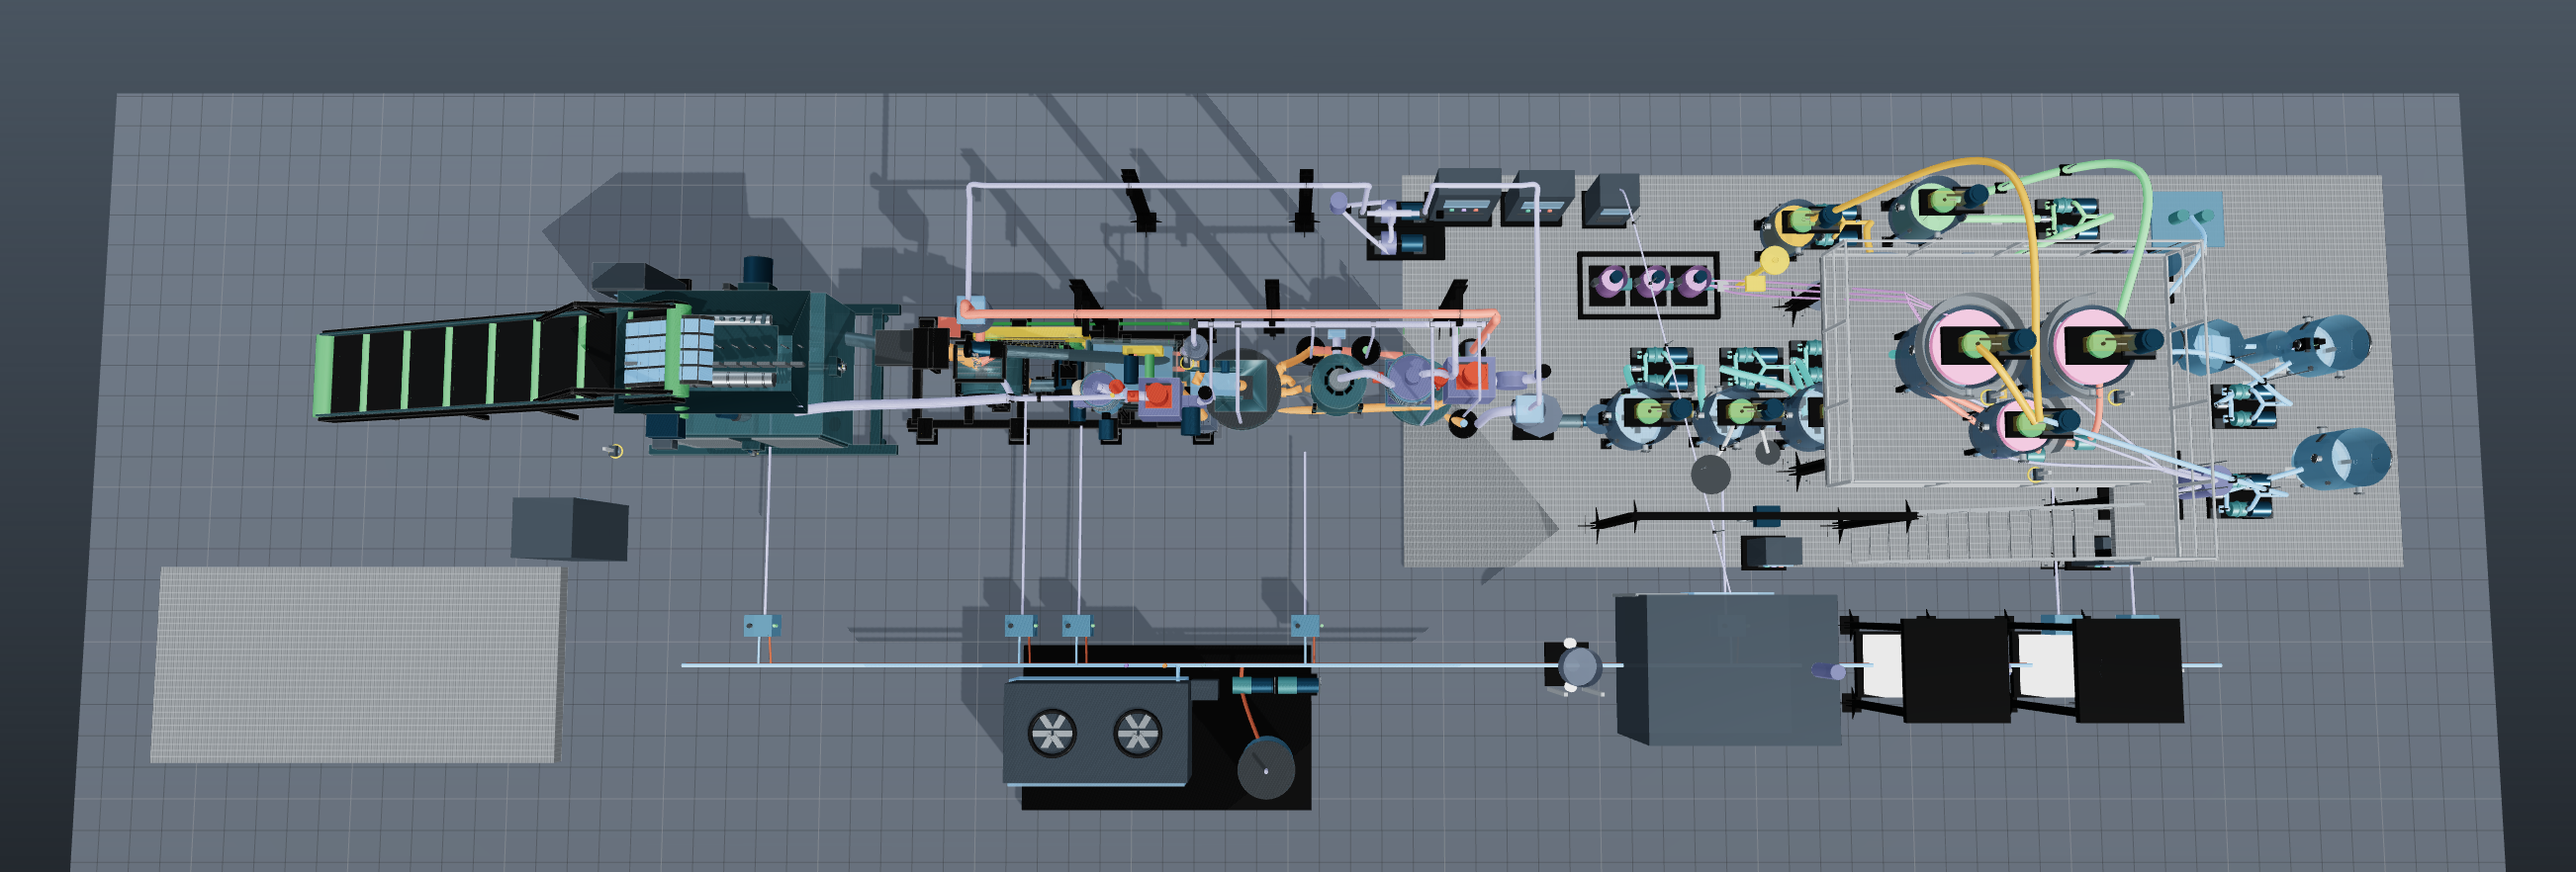
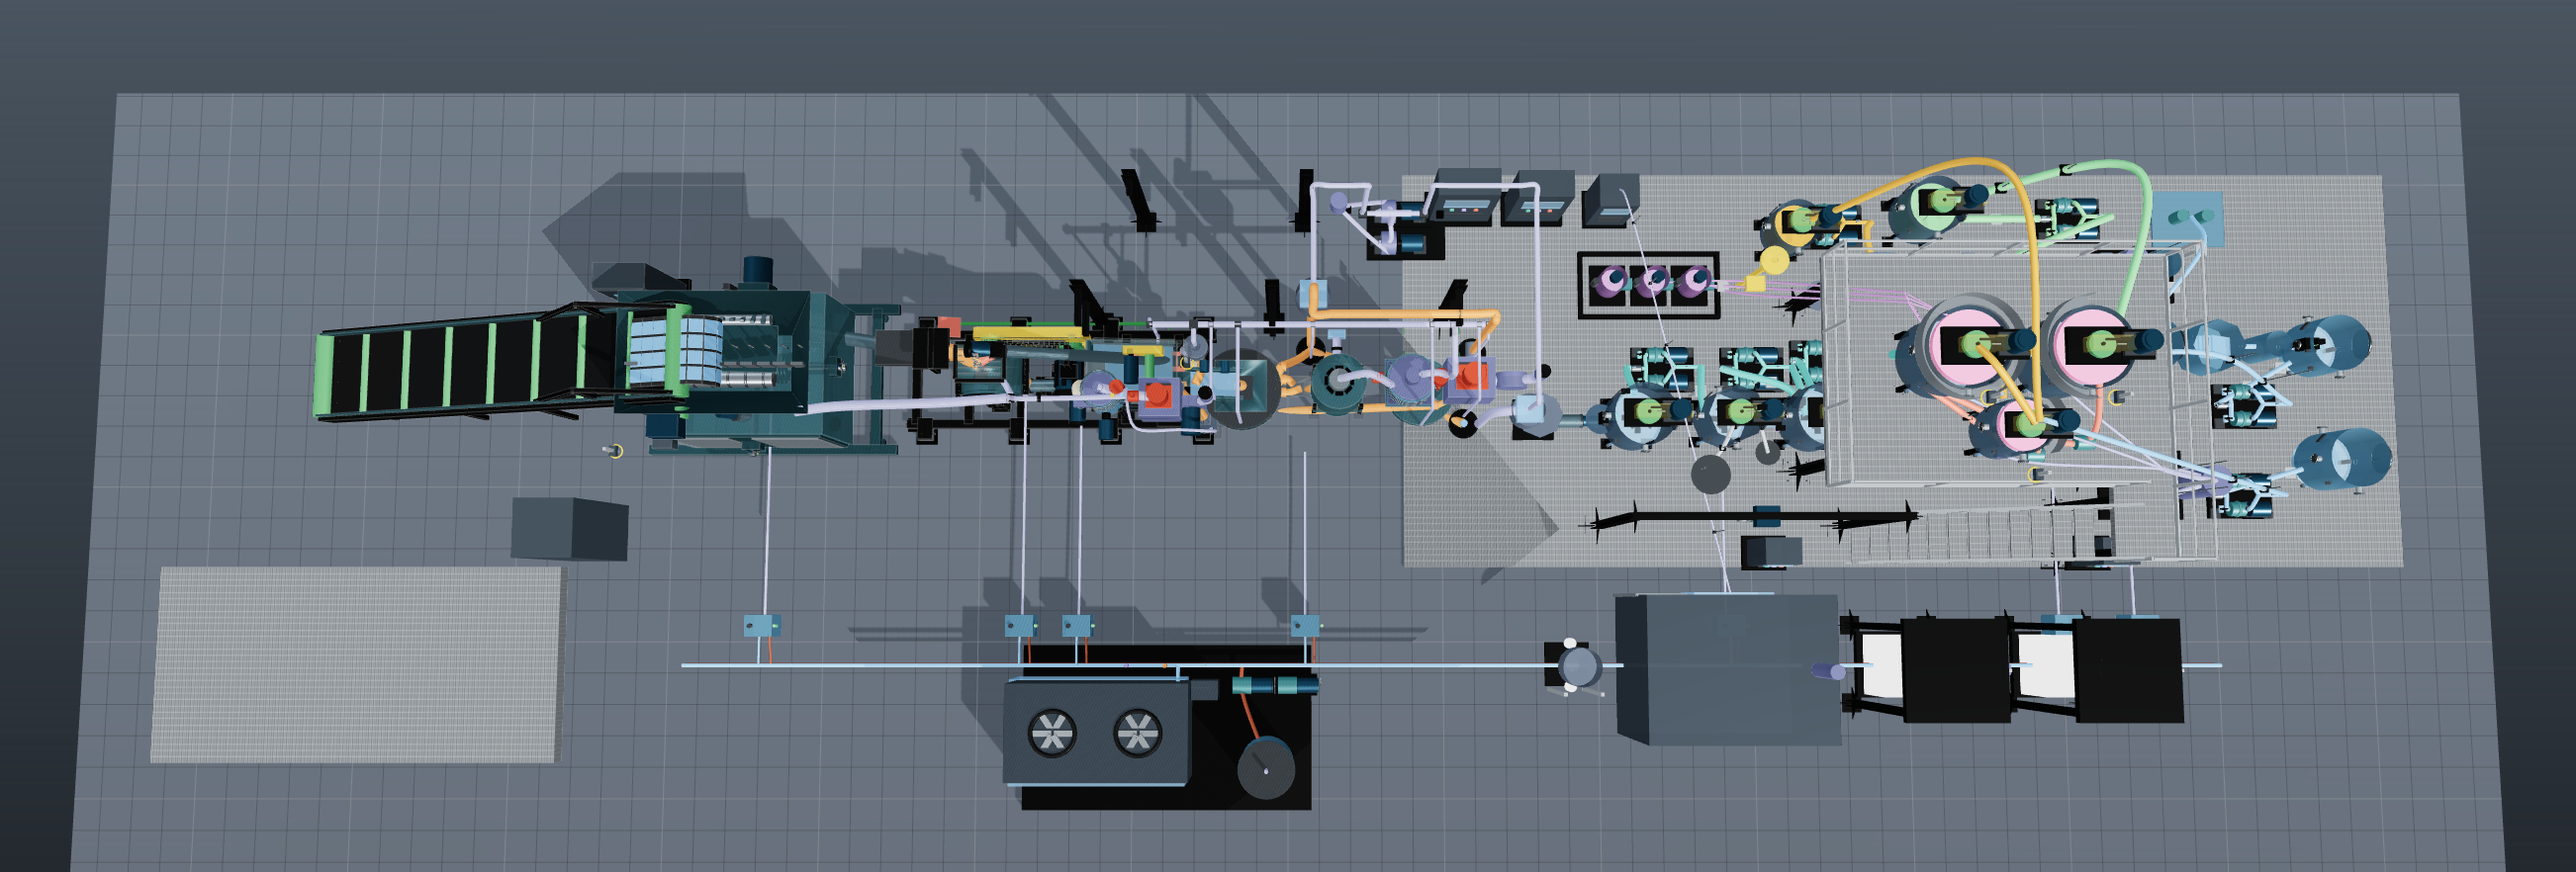
2단·폐기빈 국소배기와 접지, SC-500 BOM 을 2단으로
데크를 2단으로 만들면 배출단이 둘이 되고 회로를 떠나는 BIN-102 낙하지점이
새로 생기는데, 국소배기는 상부 후드 1점 그대로였고 신설된 폐기빈에는 벤트가
아예 없었다 — 다른 제품빈에는 전부 있는 것이 이 빈에만 빠져 있었다.

폭발방호·집진
- 2단 데크 국소배기 DN50 — 하우징 −z 측벽 노즐에서 수직으로 올라가 VH-201
  공통 벤트 헤더에 붙는다. 헤더 시작점을 x 2.52 → 1.86 으로 연장했다.
- BIN-102 벤트 DN50 — SC-500 상부 지관에 합류시켜 BF-201 로. 경로는
  CY-101(z 0.11–0.69)·CV-102(z −0.31–−0.09)와 P17 지관(y ≤ 1.50)을 피해
  z ≈ 1.00 · y ≥ 1.66 을 지난다.
- 접지 본딩 2본 — SC-500 진동체 프레임과 BIN-102. 진동체는 정전기방지
  유연연결 뒤라 배관을 통한 접지가 끊긴다.
- runtime.inspect().enclosedPiping.localExhaustPoints 9 → 11점.

SC-500 BOM (grinder)
- 어셈블리 「SC-500 환류」 → 「SC-500 2단 스크린」
- HG-032 를 2단 본체(W800×L1400)로 고치고 HG-034~039 신설 —
  1단 2 mm 메시(선경 0.80 · 개구 51.0 %) · 2단 500 µm 메시(선경 0.315 ·
  개구 37.6 %) · 메시 텐셔닝 2세트 · 데크 클램프 레일 4본 ·
  1단 오버 배출슈트 DN150 · BIN-102 폐기빈 0.06 m³
- HG-043 2단 데크 국소배기 노즐 DN50
- F-HG-08 데크 클램프 볼트 32(데크당 16) · F-HG-09 메시 텐션 볼트 12
- capacity/services/installation/acceptance 를 2단 회로 실값으로 —
  정격 400 에 실부하 380.1, 국소배기 3점, 데크 인출공간 1,600 mm,
  메시 장력 편차 ≤10 % 와 1단 45 / 2단 80 kg/h 실측 확인

렌더
docs/drawings/renders 3장을 현행 형상으로 다시 뽑았다. 설비 실범위는
36.05 × 9.55 m · 높이 6.18 m 로 종전과 같다(신설물이 기존 포락 안이다).
README 에 회로 재설계분이 무엇으로 보이는지 적었다.

검증
node syn.mjs 6블록 · offline.mjs 외부요청 0/오류 0 · deckmode.mjs 5모드 ·
파이썬 344건 · random 37 / visualRandom 17 유지 · 신설 벤트 3경로 2 cm
샘플링 간섭검사 0건

Claude-Session: https://claude.ai/code/session_01VqrMdsqG9TwrYpTzJuKaK7

diff --git a/docs/drawings/pv-recycling-miniapp.html b/docs/drawings/pv-recycling-miniapp.html
@@ -1899,6 +1899,16 @@ html>body{padding:0}</style>
       유효 1.26 × 0.89 = <strong>1.121 m²/데크</strong>(여유 +30 %)를 확보했다. 2단 합계 2.242 m².
       종전은 0.98 m² 단단이었다.</p>
 
+    <strong>데크가 늘면 흡인점도 늘어난다 — 국소배기·접지</strong>
+    <p class="text-small">데크를 2단으로 만들면 <strong>배출단이 둘</strong>이 되고, 회로를 떠나는
+      <strong>BIN-102 낙하지점</strong>이 새로 생긴다. 종전 국소배기는 상부 후드 1점뿐이었고
+      신설된 폐기빈에는 벤트가 없어, 다른 제품빈에는 전부 있는 것이 이 빈에만 빠져 있었다.
+      다음 세 가지를 더했다 —
+      ① <strong>2단 데크 국소배기 DN50</strong>(하우징 −z 측벽 → VH-201 헤더, 헤더 시작점을
+      x 2.52 → 1.86 으로 연장) · ② <strong>BIN-102 벤트 DN50</strong>(SC-500 상부 지관 합류 →
+      BF-201) · ③ <strong>접지 본딩</strong> 2본(SC-500 진동체 프레임 · BIN-102).
+      진동체는 정전기방지 유연연결 뒤라 배관을 통한 접지가 끊기므로 프레임을 따로 물려야 한다.</p>
+
     <p class="text-small text-muted">배출단 베드깊이는 1단 0.15 mm · 2단 0.26 mm 로 한계(4 × 개구 = 8.0 / 2.0 mm) 안이다 —
       이 회로에서 폭을 정하는 것은 베드깊이가 아니라 위의 용량 계산이다.
       기본용량 B 는 건식 미세체가름 실무값이며, Kst/체분석 실측이 나오면 교체해야 한다.</p>
@@ -17072,6 +17082,23 @@ window.__HSG_CANNON__=Object.freeze({"AABB":AABB,"ArrayCollisionMatrix":ArrayCol
       new THREE.Vector3(1.48, 1.86, 0.56),
       new THREE.Vector3(1.70, 2.20, 0.52)
     ]);
+    // BIN-102 벤트 — 폐기빈은 낙하 지점이라 치환공기와 분진이 그대로 올라온다.
+    // 다른 제품빈은 전부 벤트를 달았는데 신설된 이 빈만 없었다. SC-500 상부 지관에
+    // 합류시켜 BF-201 로 보낸다. 경로는 CY-101(z 0.11–0.69)·CV-102(z −0.31–−0.09)와
+    // P17 지관(y ≤ 1.50)을 피해 z ≈ 1.00 · y ≥ 1.66 을 지나간다.
+    const bin102VentBranch = new THREE.CatmullRomCurve3([
+      new THREE.Vector3(2.70, 0.56, 0.88),
+      new THREE.Vector3(2.76, 1.66, 1.00),
+      new THREE.Vector3(2.30, 1.86, 1.00),
+      new THREE.Vector3(1.62, 1.90, 0.98),
+      new THREE.Vector3(1.50, 1.88, 0.72),
+      new THREE.Vector3(1.48, 1.86, 0.56)
+    ]);
+    addMesh(parts.P12, new THREE.TubeGeometry(bin102VentBranch, 40, 0.024, 12, false), material.pipeAir, { x: 0, y: 0, z: 0 }, null, "P12", false);
+    addCylinder(parts.P12, 0.030, 0.10, { x: 2.70, y: 0.52, z: 0.86 }, material.pipeAir, "P12", "y", 14, false);
+    // 2단 데크 국소배기 노즐 — 하우징 −z 측벽을 뚫고 나와 VH-201 헤더로 올라간다.
+    // 데크가 두 장이 되면서 배출단이 둘이 되었으므로 흡인점도 둘이어야 한다.
+    addCylinder(parts.P12, 0.028, 0.16, { x: 1.86, y: 0.74, z: -0.55 }, material.pipeAir, "P12", "z", 14, false);
     const ch501VentBranch = new THREE.CatmullRomCurve3([
       new THREE.Vector3(2.30, 0.49, 0.48),
       new THREE.Vector3(2.22, 1.62, 0.62),
@@ -17606,11 +17633,13 @@ window.__HSG_CANNON__=Object.freeze({"AABB":AABB,"ArrayCollisionMatrix":ArrayCol
         { x, y: VENT_HEADER_Y, z: RACK_Z }, material.silverClamp, "P21", null, false);
       return name;
     };
-    const ventHeaderX = [2.52, 6.95];
+    // 헤더 시작점을 SC-500 2단 국소배기까지 당긴다 — 데크가 늘면 흡인점도 는다.
+    const ventHeaderX = [1.86, 6.95];
     addMesh(parts.P21, new THREE.TubeGeometry(new THREE.CatmullRomCurve3([
       new THREE.Vector3(ventHeaderX[0], VENT_HEADER_Y, RACK_Z),
       new THREE.Vector3(ventHeaderX[1], VENT_HEADER_Y, RACK_Z)
     ]), 8, 0.050, 14, false), material.pipeAir, { x: 0, y: 0, z: 0 }, null, "P21", false);
+    ventRiser(1.86, 0.74, -0.60, 0.028, "SC-500 2단 데크 국소배기");
     ventRiser(pc201ReceiverCenter.x, 2.08, pc201ReceiverCenter.z, 0.040, "PC-201 리시버 벤트");
     ventRiser(2.78, 1.18, 0.44, 0.025, "VS-501 분배기 벤트");
     ventRiser(secondaryCenter.x, 0.88, secondaryCenter.z + 0.58, 0.030, "SV-201 스크린 벤트");
@@ -17834,6 +17863,10 @@ window.__HSG_CANNON__=Object.freeze({"AABB":AABB,"ArrayCollisionMatrix":ArrayCol
     addBox(parts.P01, { x: 8.20, y: 0.035, z: 0.05 }, { x: 2.60, y: 0.06, z: -0.92 }, bondingMaterial, "P01", null, false);
     addBonding(parts.P02, "P02", { x: grinderX, y: 0.58, z: -0.30 }, { x: grinderX, y: 0.06, z: -0.92 });
     addBonding(parts.P15, "P15", { x: cycloneX, y: 1.40, z: cycloneZ - 0.20 }, { x: cycloneX, y: 0.06, z: -0.92 });
+    // SC-500 하우징과 BIN-102 — 2단 스크린과 폐기빈도 착화원 관리 대상이다.
+    // 정전기방지 유연연결 뒤쪽은 접지가 끊기므로 진동체 프레임을 따로 물린다.
+    addBonding(parts.P12, "P12", { x: 1.48, y: 0.24, z: -0.56 }, { x: 1.48, y: 0.06, z: -0.92 });
+    addBonding(parts.P12, "P12", { x: 2.58, y: 0.10, z: 0.42 }, { x: 2.58, y: 0.06, z: -0.92 });
     addBonding(parts.P17, "P17", { x: filterCenter.x, y: 1.20, z: filterCenter.z - 0.26 }, { x: filterCenter.x, y: 0.06, z: -0.92 });
     addBonding(parts.P21, "P21", { x: cyclone2Center.x, y: 1.10, z: cyclone2Center.z - 0.30 }, { x: cyclone2Center.x, y: 0.06, z: -0.92 });
     addBonding(parts.P21, "P21", { x: bfCenter.x, y: 1.00, z: bfCenter.z - 0.32 }, { x: bfCenter.x, y: 0.06, z: -0.92 });
@@ -22767,7 +22800,7 @@ window.__HSG_CANNON__=Object.freeze({"AABB":AABB,"ArrayCollisionMatrix":ArrayCol
         exposedConveyors: 0,
         solidsLines: ["L00 Shredder screen split", "L00-R SCV-R1 recycle", "L00-P SCV-P1 to HSG", "L01 mill transfer", "L02 recycle", "L03 downstream lift", "L04 classifier feed", "L06 polishing feed and discharge"],
         dustHeaders: ["BF-101 upstream header", "BF-201 downstream header"],
-        localExhaustPoints: ["ICSH-301 hopper and screen enclosure", "FD-101", "SC-500", "CH-501", "PC-201 receiver", "VS-501", "SV-201", "SS-201", "sealed product receivers"],
+        localExhaustPoints: ["ICSH-301 hopper and screen enclosure", "FD-101", "SC-500 upper hood", "SC-500 second deck (2 mm/500 um decks vented separately)", "BIN-102 backsheet reject bin", "CH-501", "PC-201 receiver", "VS-501", "SV-201", "SS-201", "sealed product receivers"],
         finalAirPath: ["cyclone", "bag filter", "ID fan", "silencer", "exhaust stack"]
       },
       deckCount: sieveDeckMeshes.length,
@@ -23321,13 +23354,13 @@ window.__HSG_CANNON__=Object.freeze({"AABB":AABB,"ArrayCollisionMatrix":ArrayCol
     },
     grinder: {
       label:"분쇄기", tag:"HSG-101 Closed Circuit", drawing:"DI-PVR-HSG101-DD-001", revision:"DD-R4",
-      capacity:"신규 ≤300 kg/h · 환류 포함 총부하 ≤400 kg/h", overall:"5,000 L × 1,600 W × 2,500 H mm", mass:"예상 4.6 t · 스키드 포함",
+      capacity:"신규 ≤300 kg/h · 정격 총부하 ≤400 kg/h(설계 실부하 380.1)", overall:"5,000 L × 1,600 W × 2,500 H mm", mass:"예상 4.6 t · 스키드 포함",
       foundation:"스키드 5,000×1,600 mm · M24 앵커 12SET · 방진패드 12EA · 그라우트 30 mm",
       basis:"Dmax 10 mm · 로터 Ø450×350 · 1,500 rpm(최대 1,800) · SC-500 2단(2 mm 스캘핑＋500 µm 폐회로) · D95 0.438 mm",
-      services:[powerService("grinder"), "흡인: 보어 137 라이닝 · 900 m³/h · BF-101/IDF-101", "투입: FD-101, 밀폐 유연슈트", "폐기/환류/제품: SC-500 >2 mm BIN-102 / 500 µm–2 mm CV-102 / <500 µm CH-501"],
-      installation:["로터 인출측 1,800 mm", "스크린 교체 하부공간 900 mm", "필터백 상부 인출공간 1,200 mm", "회전체 레이저 정렬·벨트장력 기록"],
-      acceptance:["무부하 1,500 rpm 2 h", "베어링 진동 ISO 20816 Zone B 이하", "400 kg/h 8 h 폐회로 성능", "분진누설·음압·집진 ΔP 확인"],
-      dimensions:{l:5000,w:1600,h:2500}, assemblies:["전체","스키드·하우징","로터·날","스크린·라이너","M-101 구동","FD/CV 이송","SC-500 환류","집진·음압","전력 인입·LCP","체결구"],
+      services:[powerService("grinder"), "흡인: 보어 137 라이닝 · 900 m³/h · BF-101/IDF-101", "국소배기: SC-500 상부 DN50 ＋ 2단 데크 DN50 ＋ BIN-102 DN50 → VH-201 → BF-201", "투입: FD-101, 밀폐 유연슈트", "폐기/환류/제품: SC-500 >2 mm BIN-102 45 / 500 µm–2 mm CV-102 80.1 / <500 µm CH-501 255 kg/h"],
+      installation:["로터 인출측 1,800 mm", "스크린 교체 하부공간 900 mm", "SC-500 데크 인출 측면공간 1,600 mm(2단 각각)", "필터백 상부 인출공간 1,200 mm", "회전체 레이저 정렬·벨트장력 기록"],
+      acceptance:["무부하 1,500 rpm 2 h", "베어링 진동 ISO 20816 Zone B 이하", "400 kg/h 8 h 폐회로 성능", "SC-500 2단 메시 장력 편차 ≤10% · 데크별 체분석", "1단 오버 45 kg/h·2단 오버 80 kg/h 실측 확인", "분진누설·음압·집진 ΔP 확인(2단 국소배기·BIN-102 벤트 포함)"],
+      dimensions:{l:5000,w:1600,h:2500}, assemblies:["전체","스키드·하우징","로터·날","스크린·라이너","M-101 구동","FD/CV 이송","SC-500 2단 스크린","집진·음압","전력 인입·LCP","체결구"],
       bom:bom([
         {code:"HG-001",assembly:"스키드·하우징",name:"통합 스키드 프레임",qty:1,material:"SS400",spec:"H200×200×8×12 + PL-16",note:"기계가공 패드 6점"},
         {code:"HG-002",assembly:"스키드·하우징",name:"분할 원형 하우징",qty:2,material:"SS400",spec:"OD960×W680, PL-16/20",note:"분할면 평면도 0.10 mm"},
@@ -23345,8 +23378,15 @@ window.__HSG_CANNON__=Object.freeze({"AABB":AABB,"ArrayCollisionMatrix":ArrayCol
         {code:"HG-023",assembly:"M-101 구동",name:"탈착식 벨트가드",qty:1,material:"SS400",spec:"PL-2, mesh window",note:"도어 인터록"},
         {code:"HG-030",assembly:"FD/CV 이송",name:"FD-101 정량호퍼",qty:1,material:"SUS304",spec:"0.18 m³, 로드셀 3점",note:"2중 플랩"},
         {code:"HG-031",assembly:"FD/CV 이송",name:"CV-101 배출스크루",qty:1,material:"SUS304",spec:"Ø160 P140 L900, 55 rpm",note:"1.1 kW VFD"},
-        {code:"HG-032",assembly:"SC-500 환류",name:"SC-500 경사스크린",qty:1,material:"SUS304",spec:"500 µm, 12°, 25 Hz",note:"3.0 mm p-p"},
-        {code:"HG-033",assembly:"SC-500 환류",name:"CV-102 환류스크루",qty:1,material:"SUS304",spec:"Ø140 P120 L2400, 45 rpm",note:"0.75 kW"},
+        {code:"HG-032",assembly:"SC-500 2단 스크린",name:"SC-500 2단 진동경사스크린",qty:1,material:"SUS304",spec:"W800×L1400, 12°, 25 Hz",note:"3.0 mm p-p · 유효 1.121 m²/데크"},
+        {code:"HG-033",assembly:"SC-500 2단 스크린",name:"CV-102 환류스크루",qty:1,material:"SUS304",spec:"Ø140 P120 L2400, 45 rpm",note:"0.75 kW"},
+        {code:"HG-034",assembly:"SC-500 2단 스크린",name:"1단 2 mm 스캘핑 메시",qty:1,material:"SUS316L",spec:"W800×L1400, 선경 0.80",note:"개구율 51.0% · 성적서"},
+        {code:"HG-035",assembly:"SC-500 2단 스크린",name:"2단 500 µm 메시",qty:1,material:"SUS316L",spec:"W800×L1400, 선경 0.315",note:"개구율 37.6% · 지배 데크"},
+        {code:"HG-036",assembly:"SC-500 2단 스크린",name:"메시 텐셔닝 세트",qty:2,material:"SUS304",spec:"크라운바 3본 + 텐션레일",note:"데크당 1세트"},
+        {code:"HG-037",assembly:"SC-500 2단 스크린",name:"데크 클램프 레일",qty:4,material:"SUS304",spec:"L1400, 편심캠형",note:"데크당 좌우 2본"},
+        {code:"HG-038",assembly:"SC-500 2단 스크린",name:"1단 오버 배출슈트",qty:1,material:"SUS304",spec:"t3, DN150 → BIN-102",note:"샘플포트 포함"},
+        {code:"HG-039",assembly:"SC-500 2단 스크린",name:"BIN-102 백시트 폐기빈",qty:1,material:"SUS304",spec:"0.06 m³, Ø460, 벤트 DN50",note:"45 kg/h · 회로 이탈"},
+        {code:"HG-043",assembly:"집진·음압",name:"2단 데크 국소배기 노즐",qty:1,material:"SUS304",spec:"DN50, 하우징 −z 측벽",note:"VH-201 헤더 연장 합류"},
         {code:"HG-040",assembly:"집진·음압",name:"CY-101 사이클론",qty:1,material:"SUS304",spec:"Ø500, 입구 보어 137",note:"RV-101 에어록 포함"},
         {code:"HG-041",assembly:"집진·음압",name:"BF-101 백필터",qty:1,material:"SS400",spec:"900 m³/h, 12 bags",note:"펄스젯·ΔP"},
         {code:"HG-042",assembly:"집진·음압",name:"IDF-101 유인팬",qty:1,material:"Vendor",spec:"5.5 kW VFD",note:"소음기·스택"},
@@ -23357,7 +23397,9 @@ window.__HSG_CANNON__=Object.freeze({"AABB":AABB,"ArrayCollisionMatrix":ArrayCol
         {code:"F-HG-04",assembly:"체결구",type:"fastener",name:"고정날 볼트세트",qty:16,material:"12.9",spec:"M16×65 + Nord-Lock",note:commonFastenerNote},
         {code:"F-HG-05",assembly:"체결구",type:"fastener",name:"베어링 하우징 볼트세트",qty:8,material:"10.9",spec:"M24×85 + N + 2PW",note:commonFastenerNote},
         {code:"F-HG-06",assembly:"체결구",type:"fastener",name:"스크린 클램프 볼트",qty:24,material:"A4-80",spec:"M12×40 + N + 2PW",note:commonFastenerNote},
-        {code:"F-HG-07",assembly:"체결구",type:"fastener",name:"가드·덕트 체결구",qty:64,material:"A2-70",spec:"M10×30 + N + PW",note:"공구포획형"}
+        {code:"F-HG-07",assembly:"체결구",type:"fastener",name:"가드·덕트 체결구",qty:64,material:"A2-70",spec:"M10×30 + N + PW",note:"공구포획형"},
+        {code:"F-HG-08",assembly:"체결구",type:"fastener",name:"SC-500 데크 클램프 볼트세트",qty:32,material:"A4-80",spec:"M12×45 + N + 2PW",note:"데크당 16EA · 2단"},
+        {code:"F-HG-09",assembly:"체결구",type:"fastener",name:"메시 텐션 볼트세트",qty:12,material:"A4-80",spec:"M16×60 + 잠금너트",note:"데크당 6EA · 장력 편차 ≤10%"}
       ])
     },
     sieve: {
